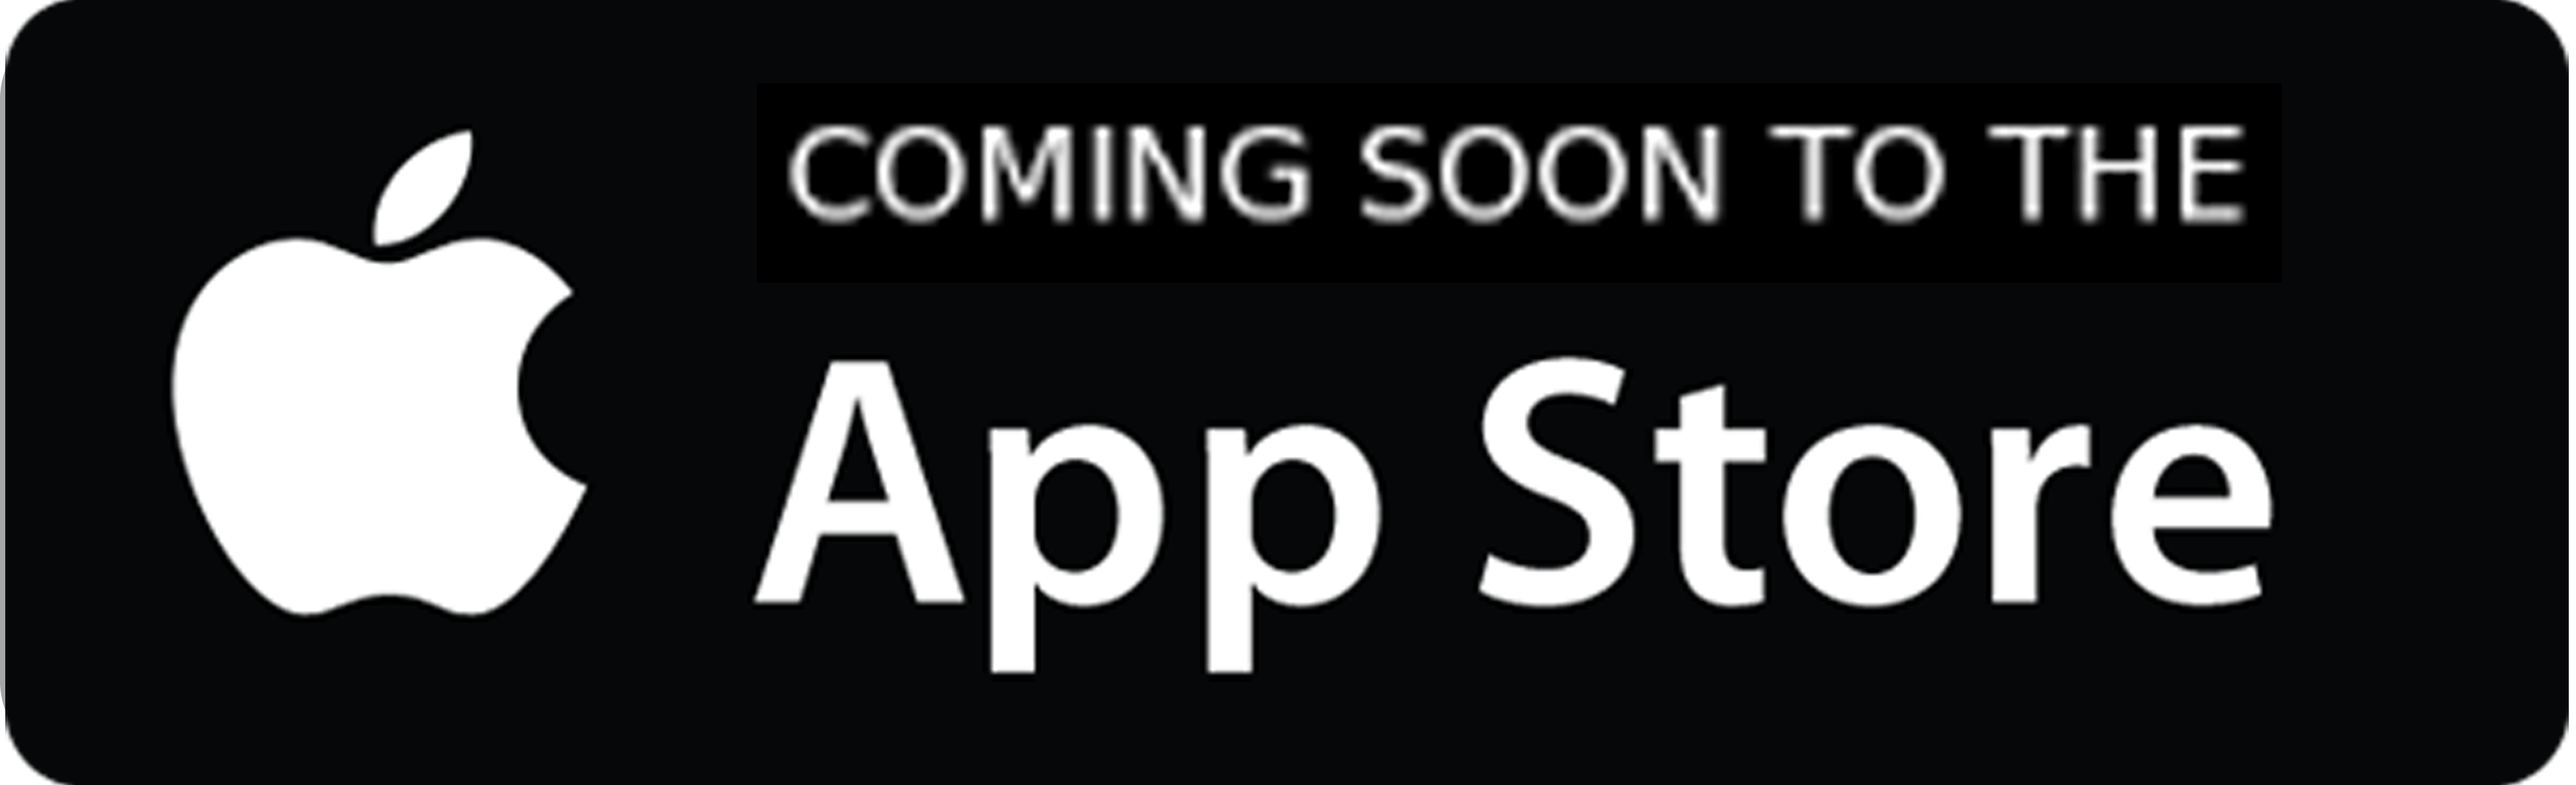
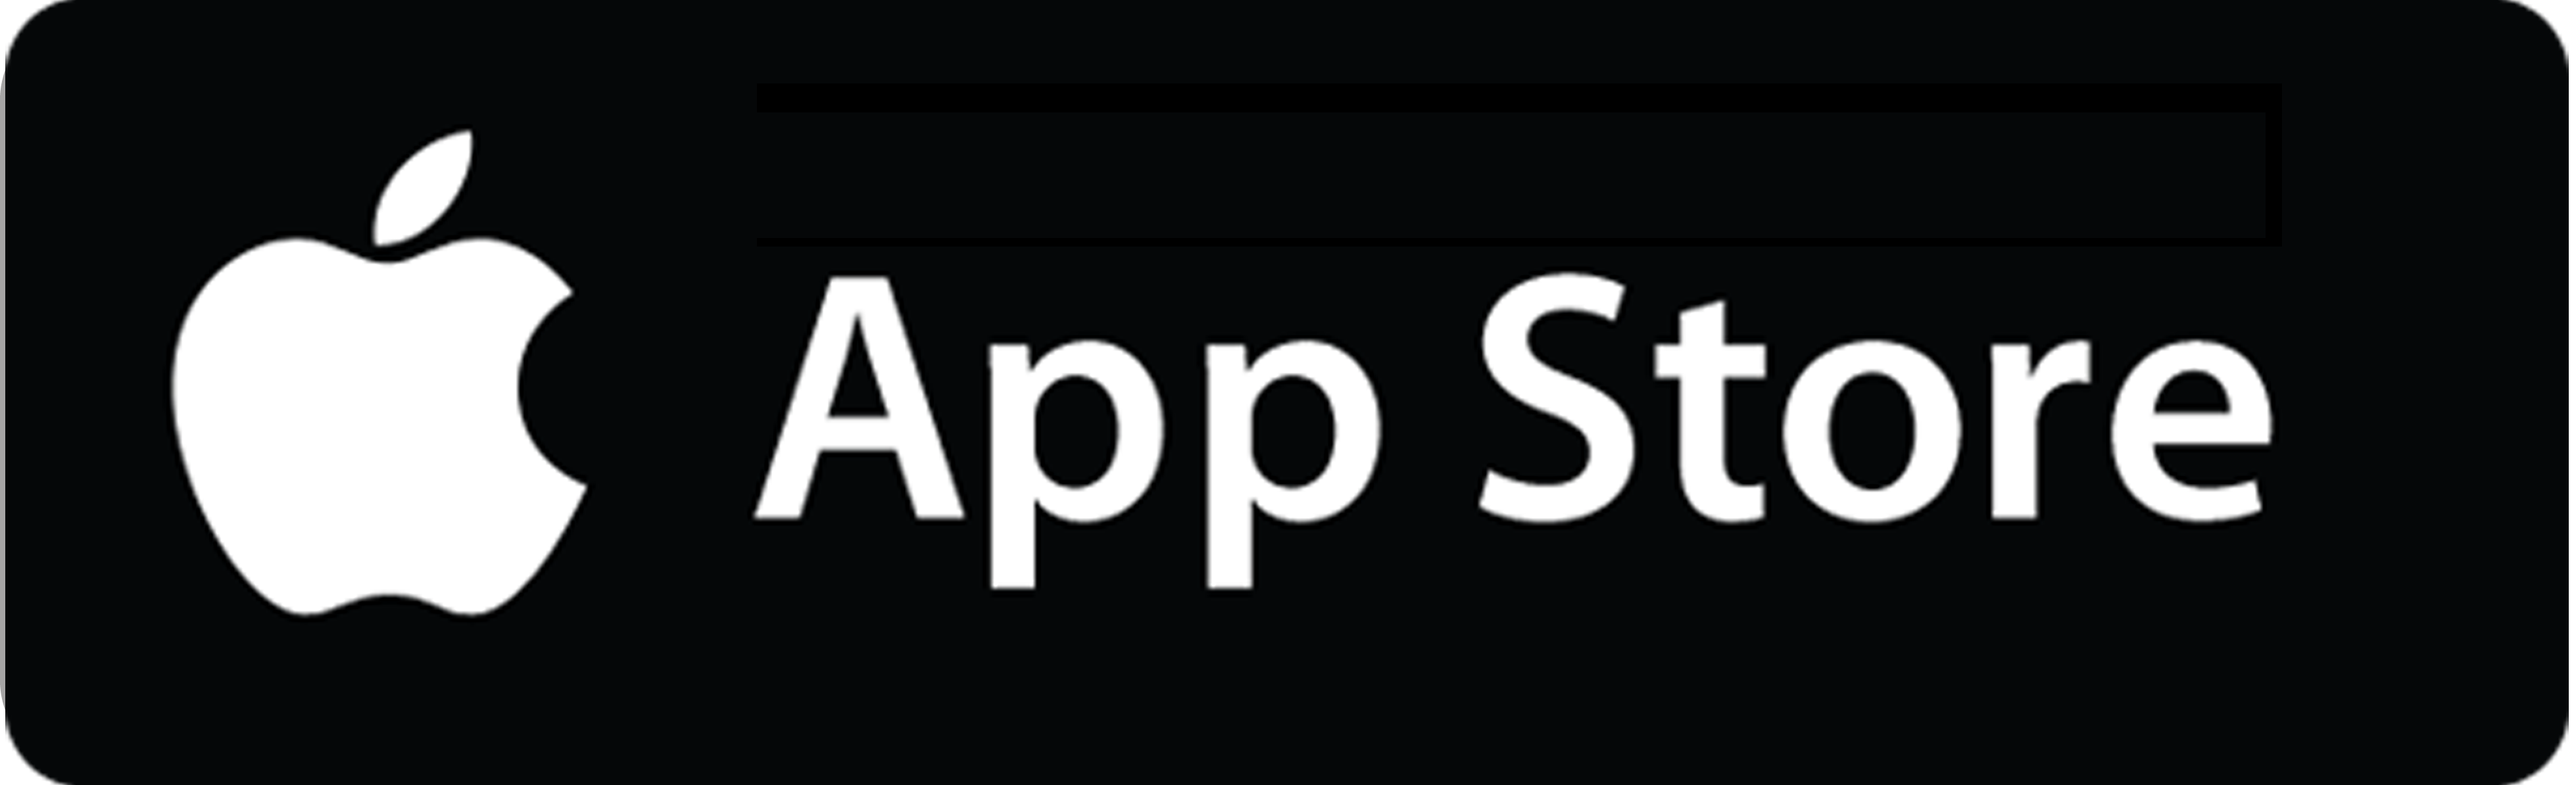
Add app links to agency

Changed region(s): [[0.2803, 0.3409, 0.9032, 0.8677], [0.2803, 0.1549, 0.8721, 0.3099]]

diff --git a/agency/views/layouts/main.php b/agency/views/layouts/main.php
@@ -224,7 +224,7 @@ $this->registerJs($analytics);
                     </a>
                 </li>
                 <li>
-                    <a href="#" style='padding-left:22px'>
+                    <a href="http://onelink.to/a8zdkr" target='_blank' style='padding-left:22px'>
                         <img src="<?= Url::to('@web/img/applecomingsoon.png') ?>" alt="Soon on App Store" style="width:88px">
                         <img src="<?= Url::to('@web/img/playcomingsoon.png') ?>" alt="Soon on Play Store" style="width:88px">
                     </a>
